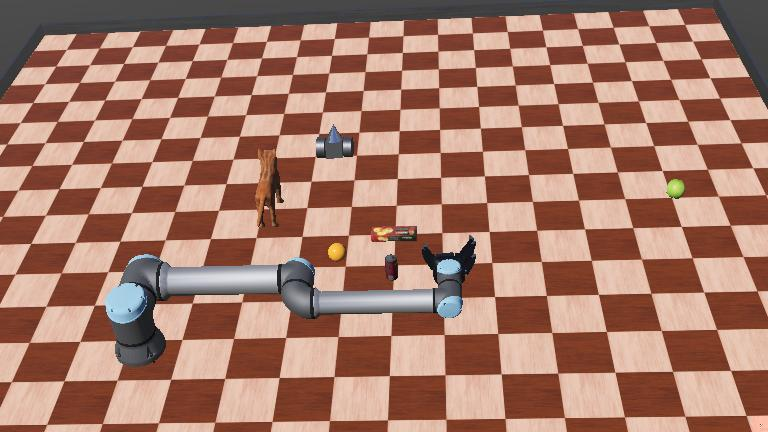
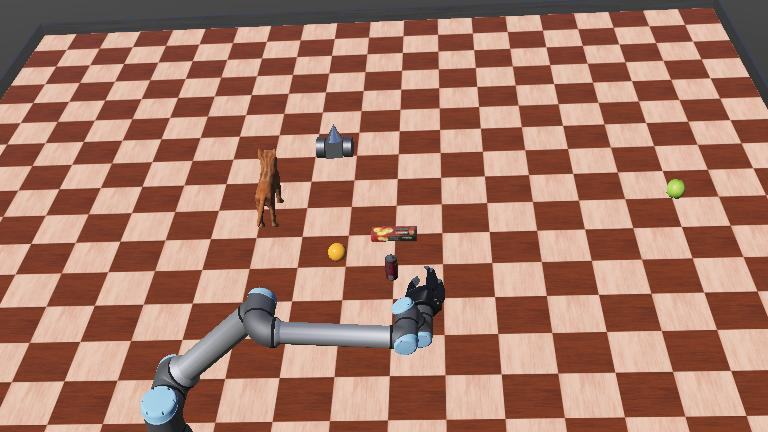
chore: plan 수정 중

Changed region(s): [[0.125, 0.5417, 0.625, 1.0], [0.9688, 0.9931, 1.0, 1.0]]

diff --git a/controllers/vlm_controller/vlm_controller.py b/controllers/vlm_controller/vlm_controller.py
@@ -9,7 +9,7 @@ from datetime import datetime, timezone
 # 설정
 # ============================================
 dotenv.load_dotenv()
-OPENAI_MODEL = os.getenv("OPENAI_MODEL", "gpt-4o-mini")
+OPENAI_MODEL = os.getenv("OPENAI_MODEL", "o3-mini")
 LOG_PATH = os.getenv("PLAN_LOG_PATH", "ur10e_run_logs.jsonl")
 
 # 초고속 설정
@@ -67,7 +67,7 @@ for n in JOINT_NAMES + GRIPPER_NAMES:
     try:
         m = robot.getDevice(n)
         if n in GRIPPER_NAMES:
-            m.setPosition(float('inf'))
+            m.setPosition(float('inf'))  # velocity mode for gripper
             m.setVelocity(0.0)
         else:
             m.setVelocity(1.0)
@@ -101,11 +101,16 @@ def normalize_joint_name(name: str) -> str:
 # 제어 함수
 # ============================================
 def move_joints(targets, speed=2.0, duration=MOVE_DURATION):
+    # list 형태도 수용 → dict로 정규화
     if isinstance(targets, list):
         targets = {
             normalize_joint_name(i["joint"]): i["angle"]
-            for i in targets if "joint" in i and "angle" in i
+            for i in targets if isinstance(i, dict) and "joint" in i and "angle" in i
         }
+
+    if not isinstance(targets, dict):
+        print(f"⚠ Invalid targets: {targets}")
+        return
 
     for n, a in targets.items():
         real_name = normalize_joint_name(n)
@@ -120,7 +125,7 @@ def move_joints(targets, speed=2.0, duration=MOVE_DURATION):
             print(f"⚠ setPosition fail: {n} ({e})")
 
     step_for(robot, timestep, duration)
-    log_event("exec_move", {"targets": targets})
+    log_event("exec_move", {"targets": targets, "speed": speed, "duration": duration})
 
 def open_gripper(speed=1.0, duration=GRIPPER_DURATION):
     for n in GRIPPER_NAMES:
@@ -130,7 +135,7 @@ def open_gripper(speed=1.0, duration=GRIPPER_DURATION):
     for n in GRIPPER_NAMES:
         m = motors.get(n)
         if m: m.setVelocity(0.0)
-    log_event("exec_gripper", {"action": "open"})
+    log_event("exec_gripper", {"action": "open", "speed": speed, "duration": duration})
 
 def close_gripper(speed=1.0, duration=GRIPPER_DURATION):
     for n in GRIPPER_NAMES:
@@ -140,7 +145,7 @@ def close_gripper(speed=1.0, duration=GRIPPER_DURATION):
     for n in GRIPPER_NAMES:
         m = motors.get(n)
         if m: m.setVelocity(0.0)
-    log_event("exec_gripper", {"action": "close"})
+    log_event("exec_gripper", {"action": "close", "speed": speed, "duration": duration})
 
 # ============================================
 # 명령 큐
@@ -166,7 +171,6 @@ def exec_queue_loop():
             command_queue.task_done()
 
 threading.Thread(target=exec_queue_loop, daemon=True).start()
-print("🚀 Queue runner (ultra-fast mode) started")
 
 # ============================================
 # OpenAI 초기화
@@ -199,19 +203,82 @@ def preset_from_utterance(t: str):
     return None
 
 # ============================================
-# LLM 플랜 생성
+# 상태 인식 (ELLMER/EMOS-style)
 # ============================================
-PLAN_SYSTEM = (
-    "너는 UR10e 로봇팔 계획자다. 반드시 아래 조인트 이름만 사용해야 한다:\n"
-    "['shoulder_pan_joint','shoulder_lift_joint','elbow_joint','wrist_1_joint','wrist_2_joint','wrist_3_joint'].\n"
-    "불필요한 wait 단계는 포함하지 말고 가능한 한 빠르게 수행하라.\n"
-)
+def get_symbolic_state():
+    """
+    UR10e 현재 상태를 요약해 LLM에 전달할 수 있는 JSON+텍스트 형태로 반환
+    - 관절 상태: getTargetPosition 값(목표값) 사용. 실제값 센서가 있다면 교체 권장.
+    - 그리퍼 상태: 설정된 속도 기반 추정(간이).
+    - EE 높이: 근사치(빠른 프롬프트용); 실제는 FK 사용 권장.
+    """
+    # 1) 관절 상태
+    joint_state = {}
+    for name in JOINT_NAMES:
+        m = motors.get(name)
+        try:
+            # 목표값 기반(빠른 추정); PositionSensor 사용 시 실제값으로 대체 가능
+            joint_state[name] = round(m.getTargetPosition(), 3)
+        except Exception:
+            joint_state[name] = None
 
-TOOLS = [{
-    "type": "function",
-    "function": {
+    # 2) 그리퍼 상태(간이 추정)
+    try:
+        avg_vel = sum(abs(motors[g].getVelocity()) for g in GRIPPER_NAMES) / max(1, len(GRIPPER_NAMES))
+        gripper_state = "closed_or_idle" if avg_vel < 0.01 else "moving/open"
+    except Exception:
+        gripper_state = "unknown"
+
+    # 3) EE 높이 근사 (가벼운 휴리스틱)
+    lift = joint_state.get("shoulder_lift_joint", 0.0) or 0.0
+    ee_height = round(0.25 + (abs(lift) * 0.10), 3)  # 단순 근사치
+
+    # 4) 프롬프트 친화 요약
+    summary = (
+        f"joints={joint_state}, gripper={gripper_state}, "
+        f"end_effector_z≈{ee_height}m"
+    )
+
+    state = {
+        "joints": joint_state,
+        "gripper": gripper_state,
+        "end_effector_z": ee_height,
+        "summary": summary
+    }
+    log_event("state_snapshot", state)
+    return state
+
+# ============================================
+# LLM 플랜 생성 (일반화 규칙, SafePlan 스타일)
+# ============================================
+PLAN_SYSTEM = """
+너는 UR10e 산업용 로봇팔의 고수준 계획자다.
+너의 역할은 주어진 목표(goal)와 현재 상태(state)를 바탕으로,
+로봇이 안전하고 효율적으로 목표를 수행하도록 단계별 계획을 세우는 것이다.
+
+[STATE VOCABULARY]
+- shoulder_pan_joint: 수평 회전 축 (기본 방향 조정)
+- shoulder_lift_joint: 어깨 상하 관절 (팔 높이 조절; 음수=아래, 양수=위)
+- elbow_joint: 팔꿈치 관절 (팔 길이/접힘 조절; 작을수록 더 구부림)
+- wrist_1_joint, wrist_2_joint, wrist_3_joint: 손목 3축 회전 (자세 정렬)
+- gripper: open/closed_or_idle/moving/open (물체 잡기 여부; moving=open 동작 중일 수 있음)
+- end_effector_z: 엔드이펙터의 높이 (m 단위; 0.0≈바닥)
+
+[GENERAL PLANNING RULES]
+1) 각 관절 각도는 [-3.14, 3.14] 범위를 넘지 않는다.
+2) 엔드이펙터 높이는 0.05m 이상을 기본으로 유지해 충돌을 피한다.
+3) 일반 순서: (a) 목표 위치/자세로 이동(move_arm) → (b) 필요시 그리퍼 동작(control_gripper) → (c) 완료 후 안정자세 복귀(선택).
+4) 최소 단계와 짧은 경로로 계획한다. 불필요한 wait나 중복 이동을 넣지 않는다.
+5) 이동 중 그리퍼는 닫지 않는다(안전 규칙).
+6) 출력은 JSON이며, 각 단계는 {"action": "...", "params": {...}} 형식이다.
+"""
+
+# Responses API용 function tool 스키마
+TOOLS = [
+    {
+        "type": "function",
         "name": "produce_plan",
-        "description": "사용자 명령을 실행 가능한 단계로 변환",
+        "description": "사용자 목표와 상태를 실행 가능한 단계 배열로 변환",
         "parameters": {
             "type": "object",
             "properties": {
@@ -220,25 +287,37 @@ TOOLS = [{
                     "items": {
                         "type": "object",
                         "properties": {
-                            "action": {"type": "string", "enum": ["move_arm","control_gripper","wait"]},
+                            "action": {
+                                "type": "string",
+                                "enum": ["move_arm", "control_gripper", "wait"]
+                            },
                             "params": {
                                 "type": "object",
                                 "properties": {
                                     "targets": {
                                         "oneOf": [
-                                            {"type": "object"},
-                                            {"type": "array", "items": {
+                                            {
                                                 "type": "object",
-                                                "properties": {
-                                                    "joint": {"type": "string"},
-                                                    "angle": {"type": "number"}
-                                                },
-                                                "required": ["joint", "angle"]
-                                            }}
+                                                "description": "예: {'shoulder_lift_joint': -1.0, 'elbow_joint': 1.5}"
+                                            },
+                                            {
+                                                "type": "array",
+                                                "description": "예: [{'joint': 'shoulder_lift_joint','angle': -1.0}]",
+                                                "items": {
+                                                    "type": "object",
+                                                    "properties": {
+                                                        "joint": {"type": "string"},
+                                                        "angle": {"type": "number"}
+                                                    },
+                                                    "required": ["joint", "angle"]
+                                                }
+                                            }
                                         ]
                                     },
-                                    "action": {"type": "string", "enum": ["open","close"]},
-                                    "seconds": {"type": "number"}
+                                    "action": {"type": "string", "enum": ["open", "close"]},
+                                    "seconds": {"type": "number"},
+                                    "speed": {"type": "number"},
+                                    "duration": {"type": "number"}
                                 }
                             }
                         },
@@ -249,59 +328,117 @@ TOOLS = [{
             "required": ["steps"]
         }
     }
-}]
+]
 
 def plan_from_text(msg: str):
     preset = preset_from_utterance(msg)
+    # 오프라인(LMM 없음) 빠른 대응
     if client is None:
         plan = [{"action": "move_arm", "params": {"targets": preset}}] if preset else []
         print(f"🧩 Generated offline plan: {json.dumps(plan, ensure_ascii=False, indent=2)}")
         return plan
+
     try:
-        resp = client.chat.completions.create(
+        # ✅ 상태 스냅샷 추가
+        state = get_symbolic_state()
+
+        resp = client.responses.create(
             model=OPENAI_MODEL,
-            messages=[{"role": "system", "content": PLAN_SYSTEM}, {"role": "user", "content": msg}],
-            tools=TOOLS, tool_choice="required", temperature=0.1, max_completion_tokens=400,
+            input=[
+                {"role": "system", "content": PLAN_SYSTEM},
+                {"role": "user", "content": f"현재 상태는 다음과 같다:\n{state['summary']}\n\n목표: {msg}\n\n이 목표를 수행하기 위한 단계별 계획을 JSON으로 작성해라."}
+            ],
+            tools=TOOLS,
+            tool_choice="required",
+            max_output_tokens=512,
         )
-        tc = resp.choices[0].message.tool_calls
-        if tc:
-            args = json.loads(strip_code_fences(tc[0].function.arguments))
-            plan = args.get("steps", [])
-            # ✅ 계획 시각화 출력
+
+        plan = None
+        for item in getattr(resp, "output", []):
+            # reasoning 항목은 스킵
+            if getattr(item, "type", None) == "reasoning":
+                continue
+
+            # function/tool call 파싱
+            if getattr(item, "type", None) in ("function_call", "tool_call"):
+                args_raw = getattr(item, "arguments", None)
+                func_name = getattr(item, "name", None)
+                if func_name != "produce_plan" or not args_raw:
+                    continue
+
+                print(f"🧩 Found tool_call '{func_name}'")
+                try:
+                    obj = json.loads(strip_code_fences(args_raw)) if isinstance(args_raw, str) else args_raw
+                    if isinstance(obj, dict) and isinstance(obj.get("steps"), list):
+                        plan = obj["steps"]
+                        break
+                except Exception as e:
+                    print("⚠ JSON parse error:", e)
+                    continue
+
+        if not plan and preset:
+            plan = [{"action": "move_arm", "params": {"targets": preset}}]
+            print("⚠ Using preset fallback")
+
+        # 출력 + 로그
+        if plan:
+            # list형 targets 정규화
+            for s in plan:
+                p = s.get("params", {})
+                t = p.get("targets")
+                if isinstance(t, list):
+                    p["targets"] = {normalize_joint_name(i["joint"]): i["angle"] for i in t if isinstance(i, dict) and "joint" in i and "angle" in i}
+                s["params"] = p
+
             print("🧠 LLM Generated Plan:")
-            for i, step in enumerate(plan, start=1):
-                print(f"  {i}. action={step.get('action')} | params={step.get('params')}")
-            log_event("plan_generated", {"input": msg, "plan": plan})
+            for i, step in enumerate(plan, 1):
+                print(f"  {i}. {step.get('action')} | {step.get('params')}")
+            log_event("plan_generated", {"input": msg, "plan": plan, "state": state})
             return plan
+        else:
+            print("⚠ No plan found in response, returning empty plan")
+
     except Exception as e:
-        print("⚠ plan_from_text:", e)
-    plan = [{"action": "move_arm", "params": {"targets": preset}}] if preset else []
-    print(f"🧩 Fallback plan: {json.dumps(plan, ensure_ascii=False, indent=2)}")
-    return plan
+        print("❌ plan_from_text() exception:", e)
+
+    # 완전 fallback
+    if preset:
+        return [{"action": "move_arm", "params": {"targets": preset}}]
+    return []
 
 # ============================================
 # 큐 등록
 # ============================================
 def enqueue_plan(plan):
+    if not plan:
+        return
     for s in plan:
         a, p = s.get("action"), s.get("params",{})
-        if a=="move_arm":
-            command_queue.put({"type":"move_joints","targets":p.get("targets",POSE_PRESETS["lift"]),
-                               "speed":2.0,"duration":MOVE_DURATION})
-        elif a=="control_gripper":
-            act=p.get("action","").lower()
-            command_queue.put({"type":"open_gripper" if act=="open" else "close_gripper"})
-        elif a=="wait":
-            command_queue.put({"type":"wait","seconds":min(0.1,p.get("seconds",0.1))})
+        if a == "move_arm":
+            targets = p.get("targets", POSE_PRESETS["lift"])
+            if isinstance(targets, list):
+                targets = {normalize_joint_name(i["joint"]): i["angle"] for i in targets if isinstance(i, dict) and "joint" in i and "angle" in i}
+            command_queue.put({
+                "type":"move_joints",
+                "targets": targets,
+                "speed": float(p.get("speed", 2.0)),
+                "duration": float(p.get("duration", MOVE_DURATION))
+            })
+        elif a == "control_gripper":
+            act = (p.get("action","").lower())
+            command_queue.put({"type": "open_gripper" if act == "open" else "close_gripper"})
+        elif a == "wait":
+            command_queue.put({"type":"wait","seconds":min(0.1, float(p.get("seconds",0.1)))})
 
 # ============================================
 # 메인 루프 (WWI)
 # ============================================
-print("🧠 Ultra-fast planner running")
+print("🟢 Ready for WWI commands")
 while robot.step(timestep) != -1:
     msg = robot.wwiReceiveText()
-    if not msg: continue
+    if not msg:
+        continue
     print(f"📩 USER: {msg}")
     plan = plan_from_text(msg)
     enqueue_plan(plan)
-    robot.wwiSendText(f"✅ {len(plan)}단계 초고속 수행 중")
+    robot.wwiSendText(f"✅ {len(plan)}단계수행 중")
